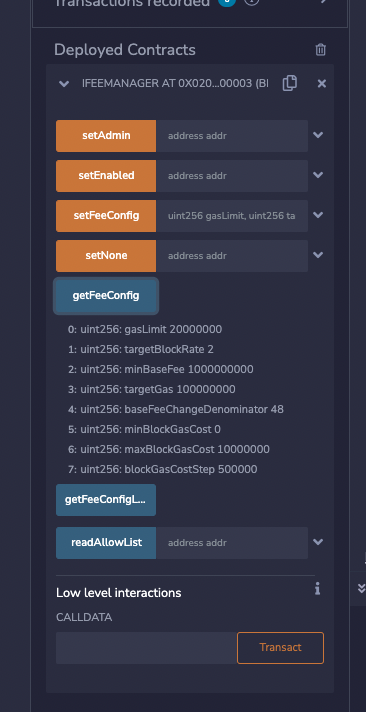
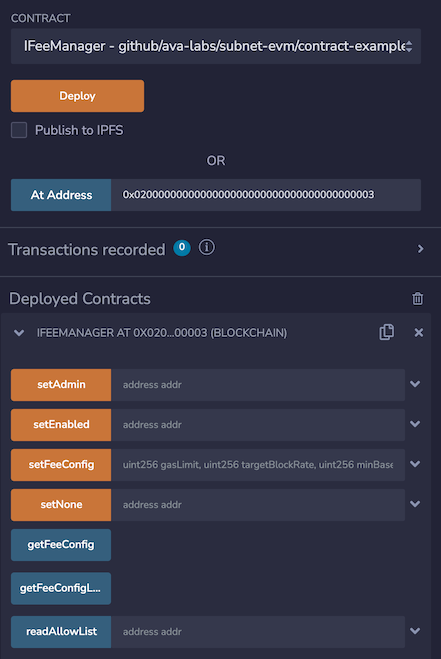
Renamed and fleshed out the WAGMI upgrade case study

diff --git a/sidebars.js b/sidebars.js
@@ -99,8 +99,8 @@ const sidebars = {
       collapsed: false,
       items: [
         'subnets/customize-a-subnet',
-        'subnets/network-upgrade',
         'subnets/subnet-upgrade',
+        'subnets/case-study-wagmi-upgrade',
         'subnets/create-a-virtual-machine-vm',
       ],
     },

diff --git a/docs/subnets/case-study-wagmi-upgrade.md b/docs/subnets/case-study-wagmi-upgrade.md
@@ -1,0 +1,149 @@
+# Case Study: WAGMI Upgrade
+
+This case study uses [WAGMI](https://subnets-test.avax.network/wagmi) Subnet upgrade to show how a network upgrade on an EVM-based Subnet can be done simply, and how the resulting upgrade can be used to dynamically control fee structure on the Subnet.
+
+## Introduction
+
+[Subnet-EVM](https://github.com/ava-labs/subnet-evm) aims to provide an easy to use toolbox to customize the EVM for your blockchain. It is meant to run out of the box for many subnets without any modification. But what happens when you want to add a new feature updating the rules of your EVM?
+
+Instead of hardcoding the timing of network upgrades in client code like most EVM chains, requiring coordinated deployments of new code, [Subnet-EVM v0.2.8](https://github.com/ava-labs/subnet-evm/releases/tag/v0.2.8) introduces the long awaited feature to perform network upgrades by just using a few lines of JSON in a configuration file.
+
+### WAGMI
+
+The [WAGMI](https://subnets-test.avax.network/wagmi) ("We're All Going to Make It") Subnet Demo is a high throughput testbed for EVM (Ethereum Virtual Machine) optimizations. It is parameterized to run at a factor more capacity than Fuji/Mainnet C-Chain and will be used to experiment with release candidates before they make it into an official coreth release.
+
+#### Network Parameters
+
+- Network ID: 11111
+- Chain ID: 11111
+- Block Gas Limit: 20,000,000 (2.5x C-Chain)
+- 10s Gas Target: 100,000,000 (~6.67x C-Chain)
+- Min Fee: 1 GWei (4% of C-Chain)
+- Target Block Rate: 2s (Same as C-Chain)
+
+Genesis file of WAGMI Subnet can be found [here](https://github.com/ava-labs/subnet-evm/blob/master/networks/11111/genesis.json).
+
+### Network Upgrades: Enable/Disable Precompiles
+
+Detailed description of how to do this can be found [here](./customize-a-subnet.md#network-upgrades-enabledisable-precompiles). Here is a summary:
+
+- Network Upgrade utilizes existing precompile on the Subnet-EVM:
+  - Restricting Smart Contract Deployers
+  - Restricting Who Can Submit Transactions
+  - Minting Native Coins
+  - Configuring Dynamic Fees
+- Each of these precomiples can be individually enabled or disabled at a given timestamp as a network upgrade, or any of the parameters governing its behaviour changed.
+- These upgrades must be specified in a file named `upgrade.json` placed in the same directory where [`config.json`](#chain-configs) resides: `{chain-config-dir}/{blockchainID}/upgrade.json`.
+
+## Preparation
+
+To prepare for the WAGMI network upgrade, on 08/15/2022, we had announced on [Twitter](https://twitter.com/AaronBuchwald/status/1559249414102720512) and shared on other social media such as Discord, with the following information:
+
+> With subnet-evm v0.2.8 It's time for a whole new Subnet Season: Network Upgrade Edition.
+>
+> Like every great show, we're kicking this season off with a pilot episode: WAGMI Network Upgrade.
+>
+> Stay tuned because this pilot is literally a can't miss for every WAGMI node 😉
+
+> The upgrade will activate the fee config manager, and enable smooth fee config updates in the future
+> https://docs.avax.network/subnets/customize-a-subnet#configuring-dynamic-fees
+>
+> This upgrade changes how blocks are processed on WAGMI, so every WAGMI node needs to upgrade to continue to validate WAGMI correctly.
+
+> In order to update your node, you need to update to subnet-evm v0.2.8 and follow the instructions to enable a stateful precompile on subnet-evm here: https://docs.avax.network/subnets/customize-a-subnet#network-upgrades-enabledisable-precompiles
+>
+> You can find the JSON to configure the network upgrade in this gist: https://gist.github.com/aaronbuchwald/b3af9da34678f542ce31717e7963085b
+
+> TLDR; you will need to place the JSON file into your node's file directory within chain-config-dir/wagmi blockchainID/upgrade.json and restart your node.
+>
+> Note: the WAGMI blockchainID is 2ebCneCbwthjQ1rYT41nhd7M76Hc6YmosMAQrTFhBq8qeqh6tt.
+
+### Deploying upgrade.json
+
+The content of the `upgrade.json` is:
+
+```json
+{
+  "precompileUpgrades": [
+    {
+      "feeManagerConfig": {
+        "adminAddresses": ["0x6f0f6DA1852857d7789f68a28bba866671f3880D"],
+        "blockTimestamp": 1660658400
+      }
+    }
+  ]
+}
+```
+
+Detailed explanation of feeManagerConfig can be found [here](./customize-a-subnet.md#configuring-dynamic-fees).
+
+With the above `upgrade.json`, we intend to change the `adminAddresses` at timestamp `1660658400`:
+
+- `0x6f0f6DA1852857d7789f68a28bba866671f3880D` is named as the new Admin of the FeeManager
+- `1660658400` is the [Unix timestamp](https://www.unixtimestamp.com/) for 10:00 AM EDT 08/16/2022 (future time when we made the announcement) when the new FeeManager change would take effect.
+
+We place the `upgrade.json` file in the chain config directory, which in our case is `~/.avalanchego/configs/chains/2ebCneCbwthjQ1rYT41nhd7M76Hc6YmosMAQrTFhBq8qeqh6tt/`. After that, we restart the node so the upgrade file is loaded.
+
+When the node restarts, AvalancheGo reads the contents of the JSON file and passes it into subnet-evm. We see a log of the chain configuration that includes the updated precompile upgrade. It looks like this:
+
+```
+INFO [08-15|15:09:36.772] <2ebCneCbwthjQ1rYT41nhd7M76Hc6YmosMAQrTFhBq8qeqh6tt Chain>
+github.com/ava-labs/subnet-evm/eth/backend.go:155: Initialised chain configuration
+config=“{ChainID: 11111 Homestead: 0 EIP150: 0 EIP155: 0 EIP158: 0 Byzantium: 0
+Constantinople: 0 Petersburg: 0 Istanbul: 0, Muir Glacier: 0, Subnet EVM: 0, FeeConfig:
+{\“gasLimit\“:20000000,\“targetBlockRate\“:2,\“minBaseFee\“:1000000000,\“targetGas\
+“:100000000,\“baseFeeChangeDenominator\“:48,\“minBlockGasCost\“:0,\“maxBlockGasCost\
+“:10000000,\“blockGasCostStep\“:500000}, AllowFeeRecipients: false, NetworkUpgrades: {\
+“subnetEVMTimestamp\“:0}, PrecompileUpgrade: {}, UpgradeConfig: {\“precompileUpgrades\“:
+[{\“feeManagerConfig\“:{\“adminAddresses\“:[\
+“0x6f0f6da1852857d7789f68a28bba866671f3880d\“],\“blockTimestamp\“:1660658400}}]},
+Engine: Dummy Consensus Engine}”
+```
+
+We note that `precompileUpgrades` correctly shows the upcoming precompile upgrade. Upgrade is locked in and ready.
+
+## Activation
+
+When the time passed 10:00 AM EDT 08/16/2022 (unix timestamp 1660658400), the `upgrade.json` had been executed as planned and the new FeeManager admin address has been activated. From now on, we don't need to issue any new code or deploy anything on the WAGMI nodes to change the fee structure. Let's see how it works in practice!
+
+## Using Fee Manager
+
+The owner `0x6f0f6DA1852857d7789f68a28bba866671f3880D` can now configure the fees on the Subnet as they see fit. To do that, all that's needed is access to the network, the private key for the newly set manager address and making calls on the precompiled contract.
+
+We will use [Remix](https://remix.ethereum.org) online Solidity IDE and the [Core Browser Extension](https://support.avax.network/en/articles/6066879-core-extension-how-do-i-add-the-core-extension). Core comes with WAGMI network built-in. Metamask will do as well but you will need to [add WAGMI](./wagmi.md#adding-wagmi-to-metamask) yourself.
+
+First we connect Core to WAGMI. Switch on the `Testnet Mode` in `Advanced` page in the hamburger menu:
+
+![Core testnet mode](/img/network-upgrade/core-testnet-mode.png)
+
+And then open the `Manage Networks` menu in the networks dropdown. Select WAGMI there by clicking the star icon:
+
+![Core network selection](/img/network-upgrade/core-network-select.png)
+
+We then switch to WAGMI in the networks dropdown. We are ready to move on to Remix now, so we open it in the browser. First, we check that Remix sees the extension and correctly talks to it. We select `Deploy & run transactions` icon on the left edge, and on the Environment dropdown, select `Injected Provider`. We need to approve the Remix network access in the browser extension. When that is done, `Custom (11111) netowrk` is shown:
+
+![Injected provider](/img/network-upgrade/remix-injected-provider.png)
+
+Good, we're talking to WAGMI Subnet. Next we need to load the contracts into Remix. Using 'load from Github' option from the Remix homescreen we load two contracts: [IAllowList.sol](https://github.com/ava-labs/subnet-evm/blob/master/contract-examples/contracts/IAllowList.sol) and [IFeeManager.sol](https://github.com/ava-labs/subnet-evm/blob/master/contract-examples/contracts/IFeeManager.sol). IFeeManager is our precompile, but it references the IAllowList, so we need that one as well. We compile IFeeManager.sol and deploy at the precompile address `0x0200000000000000000000000000000000000003` used on the [Subnet](https://github.com/ava-labs/subnet-evm/blob/master/precompile/params.go#L33).
+
+![Deployed contract](/img/network-upgrade/deployed-contract.png)
+
+Now we can interact with the FeeManager precompile from within Remix via Core. For example, we can use the `getFeeConfig` method to check the current fee configuration. Once we have the new desired configuration for the fees on the Subnet, we can use the `setFeeConfig` to change the parameters:
+
+![setFeeConfig](/img/network-upgrade/setFeeConfig.png)
+
+When we call that method by pressing the `transact` button, a new transaction is posted to the Subnet, and we can see it on [the explorer](https://subnets-test.avax.network/wagmi/block/0xad95ccf04f6a8e018ece7912939860553363cc23151a0a31ea429ba6e60ad5a3):
+
+![transaction](/img/network-upgrade/wagmi-tx.png)
+
+Immediately after the transaction is accepted, the new fee config takes effect. We can check with the `getFeeCofig` that the values are reflected in the active fee config:
+
+![getFeeConfig](/img/network-upgrade/getFeeConfig.png)
+
+That's it, fees changed! No network upgrades, no complex and risky deployments, just making a simple contract call and the new fee configuration is in place!
+
+# Conclusion
+
+Network upgrades can be complex and perilous procedures to carry out safely. Our continuing efforts with Subnets is to make upgrades as painless and simple as possible. With the powerful combination of stateful precompiles and network upgrades via the upgrade configuration files we have managed to greatly simplify both the network upgrades and network parameter changes. This in turn enables much safer experimentation and many new use cases that were too risky and complex to carry out with high-coordination efforts required with the traditional network upgrade mechanisms.
+
+We hope this case study will help spark ideas for new things you may try on your own. We're looking forward to seeing what you have built and how easy upgrades help you in managing your Subnets! If you have any questions or issues, feel free to contact us on our [Discord](https://chat.avalabs.org). Or just reach out to tell us what exciting new things you have built! 
